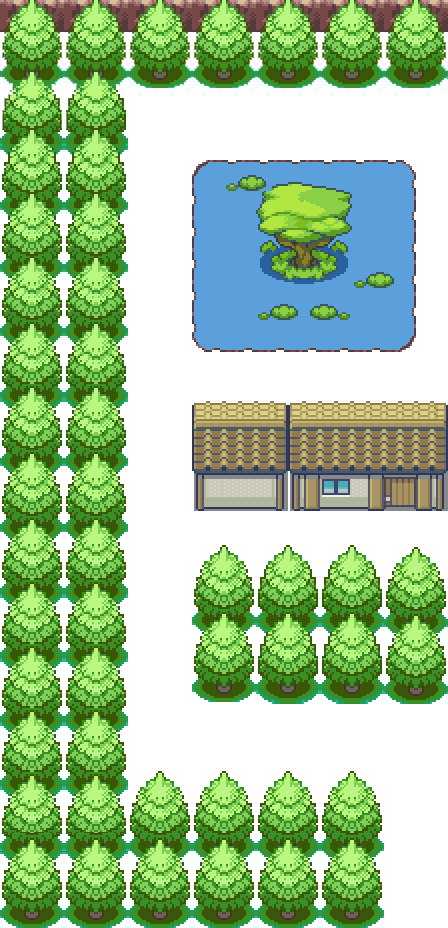
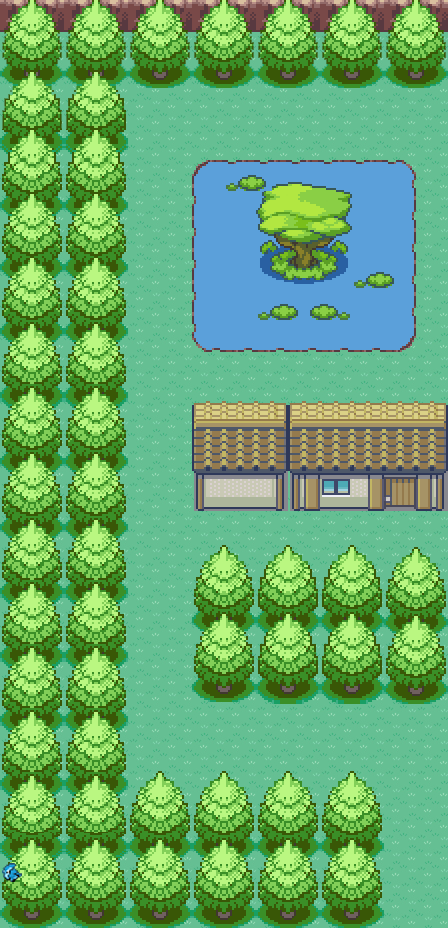
Ajout oiseau twitter
C'est un Roucoul bleu !
Quand on lui parle il ouvre une notification avec un lien pour tweeter.

diff --git a/index.html b/index.html
@@ -244,6 +244,10 @@
 		</div>
 	</div>
 	
+	<div id="forest-tweet" class="hidden">
+	   <a href="https://twitter.com/share" class="twitter-share-button forest-tweet" data-url="http://soiree.minet.net" data-text="Tw##t Me, I'm Famous ! Soirée MiNET, le 7 décembre 2012 -" data-via="MinetTMSP" data-lang="fr" data-related="MinetTMSP">Tw##t Me, I'm Famous !</a>
+	</div>
+	
 	<!-- Librairies JS -->
 	<script src="js/lib/jquery-1.7.2.min.js"></script>
 	<script src="js/lib/underscore.min.js"></script>

diff --git a/js/event.js b/js/event.js
@@ -113,6 +113,10 @@ var EventView = Backbone.View.extend({
 						});
 						
 						break;
+				    
+				    case 'twitter':
+				        notification('notice', 'Tweeeeeeeet ! Tweeeeeeet ! Tweeeeeet Me, I\'m Famous !'+$('#forest-tweet').html());	        
+				        break;
 				}
 			}
 		});

diff --git a/css/main.css b/css/main.css
@@ -97,6 +97,12 @@ body {
 	left: 10px;
 }
 
+.forest-tweet {
+    margin-left: 10px;
+    display: inline-block;
+    vertical-align: middle;   
+}
+
 /*
 |--------------------------------------------------------------------------
 | NAVIGATION
